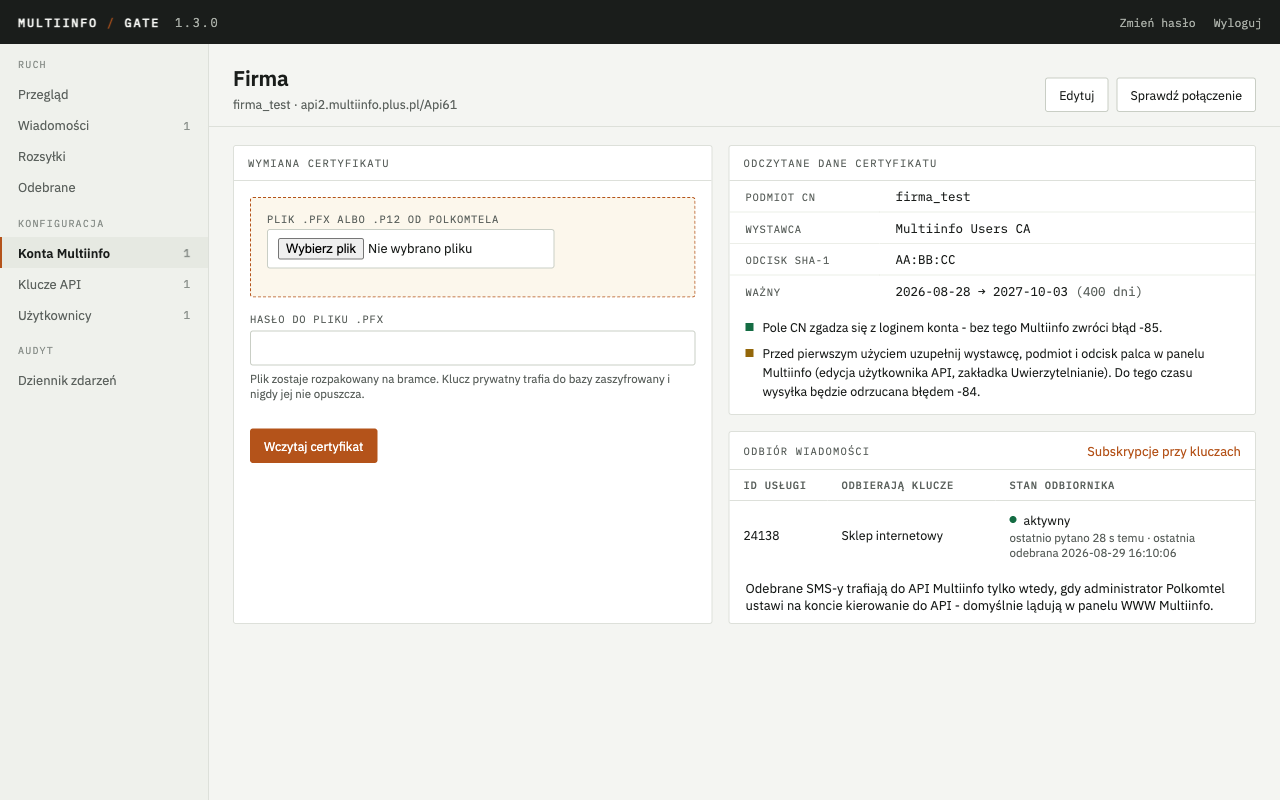
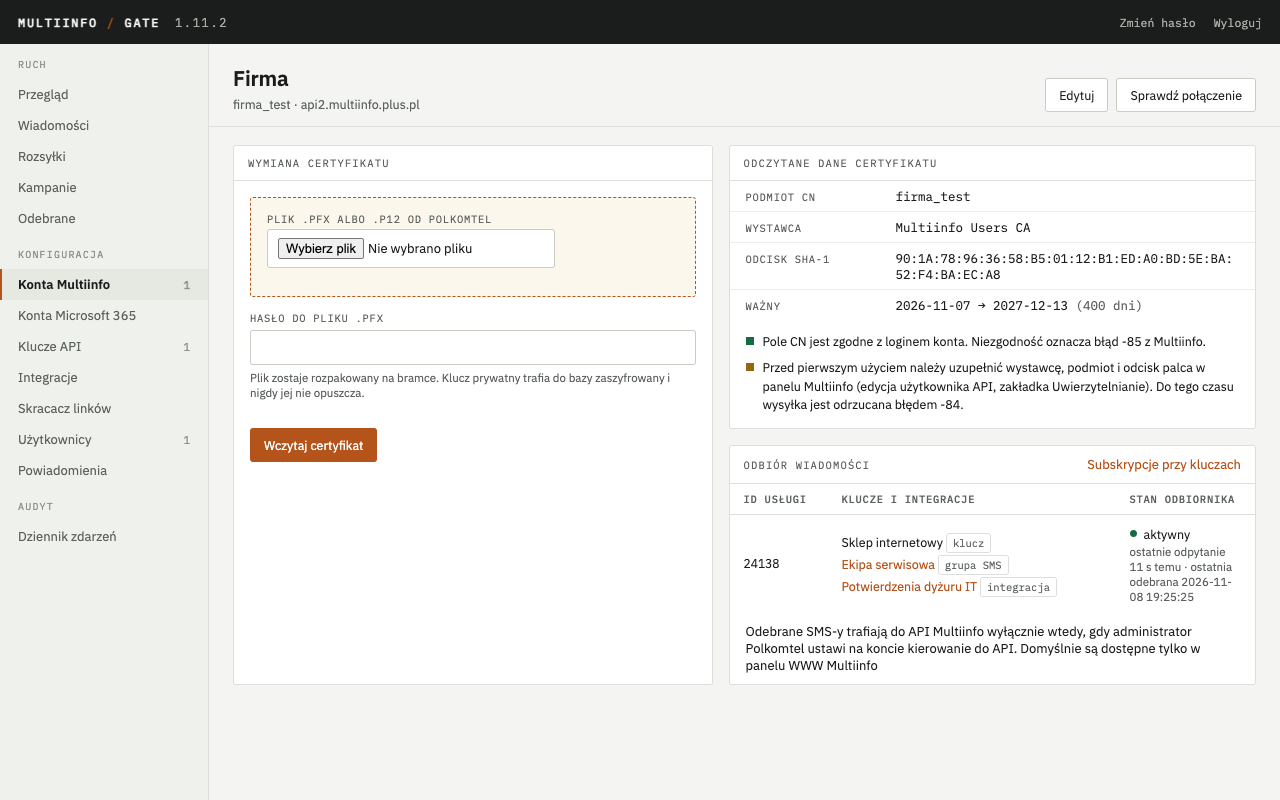
1.11.2: grupa nasłuchuje wybranej usługi i pomija zaległe SMS-y, jeden warunek odbierających
Grupa SMS z wybraną usługą odbiera i rozsyła wyłącznie SMS-y z tej usługi, zgodnie z rozdziałem 5a.2.
Wiadomość, którą Multiinfo odebrało ponad 2 godziny wcześniej, grupa pomija z wpisem „wiadomość
zaległa”. Chroni to przed rozesłaniem zaległości sprzed dni przy pierwszym uruchomieniu odbioru.

Odpytywanie, dostawy i karta konta korzystają z jednego warunku SQL, a test sprawdza ich zgodność.
Karta konta: kolumna „Klucze i integracje” z plakietkami, stan „nieaktywny: żaden klucz ani integracja
nie odbiera”, nowy zrzut ekranu w dokumentacji.

diff --git a/test/store/inbound-services.test.ts b/test/store/inbound-services.test.ts
@@ -83,6 +83,64 @@ describe('InboundServicesRepo.activeTargets', () => {
     integrations.setEnabled(id, false, NOW);
     expect(repo.activeTargets(NOW)).toEqual([]);
   });
+  it('grupa z wybraną usługą odpytuje tylko tę usługę, grupa bez usługi wszystkie usługi klucza', () => {
+    const apiKeyId = keys.insert(key({ webhookUrl: null, webhookSecret: null, inboundSubscribed: 0, serviceIds: ['24138', '24902'] }));
+    const id = integrations.insert({
+      name: 'Ekipa serwisowa', kind: 'sms_group', apiKeyId, serviceId: '24138', orig: null, preset: 'sms-grupa', enabled: 1,
+      config: defaultSmsGroupConfig(), secrets: {}, storePayloads: 0, createdAt: NOW,
+    });
+    expect(repo.activeTargets(NOW)).toEqual([{ accountId, serviceId: '24138' }]);
+    integrations.update(id, { name: 'Ekipa serwisowa', serviceId: null, orig: null, preset: 'sms-grupa', enabled: 1, storePayloads: 0, config: defaultSmsGroupConfig() }, NOW);
+    expect(repo.activeTargets(NOW)).toEqual([{ accountId, serviceId: '24138' }, { accountId, serviceId: '24902' }]);
+  });
+});
+
+describe('odpytywanie, dostawy i karta konta liczą tych samych odbiorców', () => {
+  // Trzy zapytania odpowiadają na to samo pytanie: activeTargets (o co pytać Multiinfo), inboundListenerKeyIds
+  // (komu dostarczyć odebraną) i inboundListeners (co pokazać na karcie konta). Rozjazd między nimi był błędem 1.11.1.
+  const zgodne = () => {
+    const cele = repo.activeTargets(NOW).map((t) => t.serviceId);
+    for (const usluga of ['24138', '24902']) {
+      const klucze = integrations.inboundListenerKeyIds(accountId, usluga, NOW).length + keys.inboundSubscribers(accountId, usluga, NOW).length;
+      const karta = integrations.inboundListeners(accountId, usluga, NOW).length + keys.inboundSubscribers(accountId, usluga, NOW).length;
+      expect([usluga, klucze > 0, karta > 0]).toEqual([usluga, cele.includes(usluga), cele.includes(usluga)]);
+    }
+  };
+  let numer = 0;
+  const integracja = (apiKeyId: number, over: { kind: 'sms_group' | 'webhook_out'; serviceId?: string | null; enabled?: 0 | 1; events?: string[] }) => integrations.insert({
+    name: `I${++numer}`, kind: over.kind, apiKeyId, serviceId: over.serviceId ?? null, orig: null, preset: 'custom', enabled: over.enabled ?? 1,
+    config: over.kind === 'sms_group' ? defaultSmsGroupConfig() : { ...defaultOutboundConfig(), url: 'https://x.example/', ...(over.events ? { events: over.events as never } : {}) },
+    secrets: {}, storePayloads: 0, createdAt: NOW,
+  });
+  const bezOdbioru = (over: Partial<ApiKeyInput> = {}) => keys.insert(key({ webhookUrl: null, webhookSecret: null, inboundSubscribed: 0, serviceIds: ['24138', '24902'], ...over }));
+
+  it('grupa z usługą, bez usługi i wyłączona', () => {
+    const k = bezOdbioru();
+    zgodne();
+    integracja(k, { kind: 'sms_group', serviceId: '24902' });
+    zgodne();
+    integracja(k, { kind: 'sms_group', enabled: 0 });
+    zgodne();
+  });
+  it('wychodząca na odebrane i tylko na statusy', () => {
+    const k = bezOdbioru();
+    integracja(k, { kind: 'webhook_out', events: ['message.delivered'] });
+    zgodne();
+    integracja(k, { kind: 'webhook_out' });
+    zgodne();
+  });
+  it('klucz odwołany, wygasły i bez jednej z usług', () => {
+    const odwolany = bezOdbioru({ keyPrefix: 'p1' });
+    integracja(odwolany, { kind: 'sms_group' });
+    keys.revoke(odwolany);
+    zgodne();
+    const wygasly = bezOdbioru({ keyPrefix: 'p2', expiresAt: '2026-08-29T09:00:00.000Z' });
+    integracja(wygasly, { kind: 'webhook_out' });
+    zgodne();
+    const jednaUsluga = bezOdbioru({ keyPrefix: 'p3', serviceIds: ['24902'] });
+    integracja(jednaUsluga, { kind: 'sms_group', serviceId: '24138' });
+    zgodne();
+  });
 });
 
 describe('InboundServicesRepo - stan usługi', () => {

diff --git a/src/admin/views/accounts.ts b/src/admin/views/accounts.ts
@@ -495,13 +495,13 @@ function ago(iso: string, now: Date): string {
 function inboundPanel(v: AccountView, now: Date): string {
   const rows = v.inbound.map(({ serviceId, subscribers, listeners, state }) => {
     const receivers = [
-      ...subscribers.map((name) => esc(name)),
+      ...subscribers.map((name) => `${esc(name)} <span class="tag">klucz</span>`),
       ...listeners.map((i) => `<a href="/integracje/${esc(i.id)}">${esc(i.name)}</a> <span class="tag">${i.kind === 'sms_group' ? 'grupa SMS' : 'integracja'}</span>`),
     ];
     let status: string;
     if (v.row.pausedReason !== null) status = '<span class="st"><span class="dot dot-wait"></span>wstrzymany razem z kontem</span>';
     else if (state.error !== null) status = `<span class="st"><span class="dot dot-fail"></span>zatrzymany: ${esc(state.error)}</span>`;
-    else if (receivers.length === 0) status = '<span class="dim">nieaktywny (brak odbierających kluczy i integracji)</span>';
+    else if (receivers.length === 0) status = '<span class="dim">nieaktywny: żaden klucz ani integracja nie odbiera</span>';
     else {
       const polled = state.lastPollAt === null ? 'bez odpytania' : `ostatnie odpytanie ${ago(state.lastPollAt, now)}`;
       const received = state.lastReceivedAt === null ? 'bez odebranych wiadomości' : `ostatnia odebrana ${warsawStamp(state.lastReceivedAt)}`;
@@ -510,14 +510,14 @@ function inboundPanel(v: AccountView, now: Date): string {
     }
     return `<tr>
       <td class="m">${esc(serviceId)}</td>
-      <td>${receivers.length === 0 ? '<span class="dim">-</span>' : receivers.join('<br>')}</td>
+      <td>${receivers.length === 0 ? '<span class="dim">-</span>' : receivers.map((r) => `<div style="padding: 3px 0;">${r}</div>`).join('')}</td>
       <td>${status}</td>
     </tr>`;
   }).join('');
   return `<div class="panel">
     <div class="panel-h"><div class="lab">Odbiór wiadomości</div><a href="/klucze">Subskrypcje przy kluczach</a></div>
     <table>
-      <tr><th style="width: 70px;">ID usługi</th><th style="width: 260px;">Odbierają</th><th>Stan odbiornika</th></tr>
+      <tr><th style="width: 70px;">ID usługi</th><th style="width: 260px;">Klucze i integracje</th><th>Stan odbiornika</th></tr>
       ${rows}
     </table>
     <div class="hint" style="padding: 10px 16px;">Odebrane SMS-y trafiają do API Multiinfo wyłącznie wtedy, gdy administrator Polkomtel ustawi

diff --git a/src/store/integrations.ts b/src/store/integrations.ts
@@ -57,12 +57,14 @@ const OUTBOUND_LISTENER_SQL = `i.enabled = 1 AND (
             OR (i.kind = 'sms_group' AND ? = 'message.received'))`;
 
 /**
- * Warunek SQL bez parametrów: integracja `i` odbiera wiadomości przychodzące, czyli jest włączoną wychodzącą
- * na message.received albo włączoną grupą SMS. Taka integracja zapala odbiór usług swojego klucza.
+ * Warunek SQL bez parametrów: integracja `i` odbiera wiadomości z usługi `s.service_id`, czyli jest włączoną
+ * wychodzącą na message.received albo włączoną grupą SMS, której wybrana usługa (o ile jest) to ta usługa.
+ * Taka integracja zapala odbiór. Zapytanie musi mieć w zasięgu usługę klucza pod aliasem `s`. Ten sam warunek
+ * liczy odpytywanie, dostawy i kartę konta, żeby te trzy miejsca zawsze widziały tych samych odbiorców.
  */
 export const RECEIVED_LISTENER_SQL = `i.enabled = 1 AND (
             (i.kind = 'webhook_out' AND EXISTS (SELECT 1 FROM json_each(json_extract(i.config, '$.events')) e WHERE e.value = 'message.received'))
-            OR i.kind = 'sms_group')`;
+            OR (i.kind = 'sms_group' AND (i.service_id IS NULL OR i.service_id = s.service_id)))`;
 
 export class IntegrationsRepo {
   constructor(private readonly db: Database, private readonly masterKey: Buffer) {}
@@ -136,10 +138,10 @@ export class IntegrationsRepo {
     const rows = this.db.prepare(
       `SELECT DISTINCT k.id FROM api_keys k
          JOIN api_key_services s ON s.api_key_id = k.id AND s.service_id = ?
-         JOIN integrations i ON i.api_key_id = k.id AND ${OUTBOUND_LISTENER_SQL}
+         JOIN integrations i ON i.api_key_id = k.id AND ${RECEIVED_LISTENER_SQL}
         WHERE k.account_id = ? AND k.revoked_at IS NULL AND (k.expires_at IS NULL OR k.expires_at > ?)
         ORDER BY k.id`,
-    ).all(serviceId, 'message.received', 'message.received', accountId, now.toISOString()) as Array<{ id: number }>;
+    ).all(serviceId, accountId, now.toISOString()) as Array<{ id: number }>;
     return rows.map((r) => r.id);
   }
 

diff --git a/src/integrations/pipeline.ts b/src/integrations/pipeline.ts
@@ -551,7 +551,14 @@ export interface ReceivedEvent {
   id: string; serviceId: string; from: string; to: string; kind: string; text?: string; hex?: string; receivedAt: string; relatedMessageId: string | null;
 }
 
-export type SmsGroupSkipReason = 'binary' | 'sender_not_allowed' | 'no_prefix' | 'empty' | 'condition' | 'no_recipients';
+export type SmsGroupSkipReason = 'binary' | 'sender_not_allowed' | 'no_prefix' | 'empty' | 'stale' | 'condition' | 'no_recipients';
+
+/**
+ * Wiadomość starsza niż ten próg (licząc od odbioru przez Multiinfo) nie trafia do grupy. Multiinfo trzyma
+ * nieodebrane SMS-y, dopóki ktoś o nie nie zapyta, więc pierwsze uruchomienie odbioru oddałoby zaległości
+ * sprzed dni i grupa rozesłałaby je na koszt konta. Dwie godziny obejmują zwykłą przerwę w pracy bramki.
+ */
+export const GROUP_MAX_AGE_MS = 2 * 3600_000;
 export type SmsGroupOutcome =
   | { kind: 'sent'; messageIds: string[]; recipients: string[]; parts: number; text: string; confirmId: string | null }
   | { kind: 'skipped'; reason: SmsGroupSkipReason }
@@ -610,6 +617,10 @@ export function runSmsGroup(deps: PipelineDeps, integration: SmsGroupIntegration
   if (sender === null) return skip('sender_not_allowed', `nadawca spoza listy: ${event.from}`);
   const match = matchPrefix(event.text, config.prefix);
   if (!match.ok) return match.reason === 'empty' ? skip('empty', 'pusta treść') : skip('no_prefix', 'bez prefiksu');
+  const received = Date.parse(event.receivedAt);
+  if (Number.isFinite(received) && now.getTime() - received > GROUP_MAX_AGE_MS) {
+    return skip('stale', 'wiadomość zaległa: Multiinfo odebrało ją ponad 2 godziny temu');
+  }
   const recipients = groupRecipients(config, event.from);
   const context = buildGroupContext(event, match.body, sender, recipients, config, integration, now);
 

diff --git a/test/admin/accounts.test.ts b/test/admin/accounts.test.ts
@@ -547,7 +547,7 @@ describe('karta konta - odbiór wiadomości', () => {
   it('usługa bez subskrybentów: odbiór nieaktywny', async () => {
     const res = await card();
     expect(res.body).toContain('Odbiór wiadomości');
-    expect(res.body).toContain('nieaktywny (brak odbierających kluczy i integracji)');
+    expect(res.body).toContain('nieaktywny: żaden klucz ani integracja nie odbiera');
   });
 
   it('usługa z subskrybentem: aktywny, z czasem ostatniego pytania i ostatniej odebranej', async () => {
@@ -557,7 +557,8 @@ describe('karta konta - odbiór wiadomości', () => {
     h.inboundServices.markReceived({ accountId, serviceId: '24138' }, new Date(NOW.getTime() - 3600_000));
     const res = await card();
     expect(res.body).toContain('aktywny');
-    expect(res.body).toContain('CRM');
+    expect(res.body).toContain('CRM <span class="tag">klucz</span>');
+    expect(res.body).toContain('>Klucze i integracje</th>');
     expect(res.body).toContain('ostatnie odpytanie 12 s temu');
     expect(res.body).toContain('ostatnia odebrana 2026-08-25 11:00:00');
   });
@@ -601,7 +602,7 @@ describe('karta konta - odbiór wiadomości', () => {
       config: { ...defaultOutboundConfig(), url: 'https://dyzur.example/sms', events: ['message.delivered'] }, secrets: {}, storePayloads: 0, createdAt: NOW,
     });
     const res = await card();
-    expect(res.body).toContain('nieaktywny (brak odbierających kluczy i integracji)');
+    expect(res.body).toContain('nieaktywny: żaden klucz ani integracja nie odbiera');
     expect(res.body).not.toContain('>Wyłączona</a>');
     expect(res.body).not.toContain('>Statusy</a>');
   });

diff --git a/test/integrations/group-pipeline.test.ts b/test/integrations/group-pipeline.test.ts
@@ -75,6 +75,17 @@ describe('runSmsGroup', () => {
     expect(events(g.id).map((e) => e[1])).toEqual(['brak treści tekstowej', 'pusta treść', 'bez prefiksu', 'nadawca spoza listy: 48601000009']);
     expect(events(g.id).every((e) => e[0] === 'skipped')).toBe(true);
   });
+  it('wiadomość odebrana przez Multiinfo ponad 2 godziny temu to pominięto bez rozesłania i bez potwierdzenia', () => {
+    // Zaległe SMS-y czekające w Multiinfo, na przykład po pierwszym uruchomieniu odbioru, nie mogą trafić do całej grupy.
+    const g = lists({ confirm: { enabled: true } });
+    const stale = new Date(NOW.getTime() - 2 * 3600_000 - 1000).toISOString();
+    expect(runSmsGroup(deps, g, event({ receivedAt: stale }), NOW)).toEqual({ kind: 'skipped', reason: 'stale' });
+    expect(allMessages()).toHaveLength(0);
+    expect(events(g.id)).toEqual([['skipped', 'wiadomość zaległa: Multiinfo odebrało ją ponad 2 godziny temu']]);
+    // Tuż przed progiem grupa rozsyła normalnie.
+    const fresh = new Date(NOW.getTime() - 2 * 3600_000 + 60_000).toISOString();
+    expect(runSmsGroup(deps, g, event({ receivedAt: fresh }), NOW)).toMatchObject({ kind: 'sent' });
+  });
   it('potwierdzenie: SMS w wątku do nadawcy po rozesłaniu, z liczbą odbiorców', () => {
     const g = lists({ confirm: { enabled: true } });
     const out = runSmsGroup(deps, g, event(), NOW) as Extract<SmsGroupOutcome, { kind: 'sent' }>;

diff --git a/test/worker/integrations.test.ts b/test/worker/integrations.test.ts
@@ -124,6 +124,18 @@ describe('emitIntegrations: grupa SMS', () => {
     expect(deps.integrationEvents.list(g, 5)[0]).toMatchObject({ result: 'sent', inboundId: 'in_1' });
     expect(notify).not.toHaveBeenCalled();
   });
+  it('grupa z wybraną usługą pomija SMS odebrany w innej usłudze klucza, bez wpisu w dzienniku', () => {
+    const g = integrations.insert({
+      name: 'Grupa 24138', kind: 'sms_group', apiKeyId, serviceId: '24138', orig: null, preset: 'sms-grupa', enabled: 1,
+      config: { ...defaultSmsGroupConfig(), senders: [{ phone: '48601000001', name: '' }], recipients: ['48601000002'], prefix: 'pomoc' },
+      secrets: {}, storePayloads: 0, createdAt: NOW,
+    });
+    emitIntegrations(deps, apiKeyId, 'message.received', { ...received, serviceId: '24902', text: 'Pomoc: inna usługa' }, NOW, { inboundId: 'in_1' });
+    expect(sentMessages()).toEqual([]);
+    expect(deps.integrationEvents.list(g, 5)).toEqual([]);
+    emitIntegrations(deps, apiKeyId, 'message.received', { ...received, text: 'Pomoc: ta usługa' }, NOW, { inboundId: 'in_1' });
+    expect(sentMessages()).toEqual([['48601000002', 'ta usługa']]);
+  });
   it('bez zależności wysyłki zapisuje błąd i powiadamia, nie rzuca', () => {
     const g = group({});
     const { group: _omit, ...bez } = deps;

diff --git a/src/inbound/receiver.ts b/src/inbound/receiver.ts
@@ -35,7 +35,7 @@ export interface ReceiverDeps {
   log?: Logger;
   /** Czekanie przerywalne sygnałem; testy podstawiają natychmiastowe. */
   sleep?: (ms: number, signal: AbortSignal) => Promise<void>;
-  /** Integracje wychodzące na message.received; bez obu pól odebrane idą tylko do subskrybentów. */
+  /** Integracje wychodzące na message.received i grupy SMS; bez obu pól odebrane idą tylko do subskrybentów. */
   integrations?: IntegrationsRepo;
   integrationEmit?: IntegrationEmitDeps;
   /** Powiadomienia administratora (konto wstrzymane za certyfikat). */
@@ -76,7 +76,7 @@ export type PollOutcome =
   | { kind: 'error'; error: string };
 
 export interface InboundHealth {
-  /** Usługi z choć jednym subskrybentem (cele). */
+  /** Usługi z choć jednym odbierającym kluczem albo integracją (cele). */
   services: number;
   /** Pętle działające w tej chwili. */
   listening: number;

diff --git a/src/store/inbound-services.ts b/src/store/inbound-services.ts
@@ -18,7 +18,8 @@ export class InboundServicesRepo {
    * Odbiór zapala subskrypcja: para konto+usługa jest celem, gdy konto jest czynne
    * i niewstrzymane, usługa nadal należy do konta, a choć jeden czynny klucz z webhookiem
    * subskrybuje ją. Drugi powód pytania Multiinfo: integracja wychodząca na message.received albo grupa SMS
-   * przy czynnym kluczu z dostępem do usługi - klucz nie musi mieć adresu webhooka ani subskrypcji.
+   * (bez wybranej usługi albo z tą usługą) przy czynnym kluczu z dostępem do usługi - klucz nie musi mieć
+   * adresu webhooka ani subskrypcji.
    * Bez jednego i drugiego nie ma po co pytać.
    */
   activeTargets(now: Date): InboundTarget[] {

diff --git a/src/worker/integrations.ts b/src/worker/integrations.ts
@@ -103,6 +103,8 @@ export function emitIntegrations(
   const ids: number[] = [];
   for (const integration of deps.integrations.listOutboundFor(apiKeyId, event)) {
     if (integration.kind === 'sms_group') {
+      // Grupa z wybraną usługą nasłuchuje tylko jej; SMS z innej usługi klucza nie dotyczy tej grupy.
+      if (integration.serviceId !== null && payload.serviceId !== integration.serviceId) continue;
       runGroup(deps, integration as SmsGroupIntegration, payload as unknown as ReceivedEvent, now);
       continue;
     }

diff --git a/docs/uruchomienie.md b/docs/uruchomienie.md
@@ -516,8 +516,9 @@ aplikacja ma otrzymywać powiadomienia o doręczeniu (opis w `docs/api.md`, rozd
 Pole **Odbiera wiadomości przychodzące** włącza dla klucza odbiór SMS-ów od abonentów. Bramka
 zaczyna wtedy odpytywać Multiinfo o wiadomości z usług klucza i przekazuje każdą powiadomieniem
 `message.received` na adres webhooka. Pole wymaga adresu webhooka. Kilka kluczy z dostępem do tej
-samej usługi może odbierać naraz. Gdy ostatni odbierający klucz zostanie odwołany, wygaśnie albo
-straci zaznaczenie, bramka przestaje odpytywać o tę usługę.
+samej usługi może odbierać naraz. Odbiór uruchamiają także integracje z SMS-a nasłuchujące
+odebranych SMS-ów oraz grupy SMS. Bramka przestaje odpytywać o usługę, gdy nie odbiera jej już żaden
+klucz ani żadna integracja.
 
 Sekcja **Skracanie linków** włącza dla klucza zamianę linków w SMS-ach na krótkie linki własnej
 domeny firmy i liczenie ich otwarć. Opis sekcji znajdziesz w artykule
@@ -530,15 +531,14 @@ wklejony w przepływie nie pozwala wtedy ominąć limitu części, ochrony przed
 integracji. Lista kluczy oznacza taki klucz plakietką „tylko integracje”. Polecenie sprawdzające
 przy nowym kluczu odczytuje wtedy listę integracji zamiast wysyłać SMS.
 
-Stan odbioru widać na karcie konta w sekcji „Odbiór wiadomości”: czy jest aktywny, czas ostatniego
-odpytania i ostatniej odebranej wiadomości. Kolumna „Odbierają” wymienia klucze z zaznaczonym odbiorem
-oraz integracje, które uruchamiają odbiór, czyli integracje z SMS-a nasłuchujące odebranych SMS-ów
-i grupy SMS. Usługa zatrzymana błędem Multiinfo (na przykład
-nieaktywna) pokazuje przyczynę. Bramka ponawia odpytanie co 15 minut. Gdy administrator
+Stan odbioru przedstawia karta konta w sekcji „Odbiór wiadomości”: czy odbiór jest aktywny, czas
+ostatniego odpytania i ostatniej odebranej wiadomości. Kolumna „Klucze i integracje” wymienia klucze
+z zaznaczonym odbiorem oraz integracje, które same uruchamiają odbiór. Usługa zatrzymana błędem
+Multiinfo, na przykład nieaktywna, pokazuje przyczynę. Bramka ponawia odpytanie co 15 minut. Gdy administrator
 Polkomtel aktywuje usługę, odbiór wznawia się bez ingerencji. Zapis klucza albo tego konta w panelu
 wymusza natychmiastowe odpytanie.
 
-![Karta konta, sekcja Odbiór wiadomości: usługa z odbierającym kluczem, stan aktywny z czasem ostatniego pytania i ostatniej odebranej](obrazki/konto-odbior.png)
+![Karta konta, sekcja Odbiór wiadomości: usługę odbierają klucz, grupa SMS i integracja, stan aktywny z czasem ostatniego odpytania i ostatniej odebranej](obrazki/konto-odbior.png)
 
 Nad listą kluczy panel prosi raz o **adres, pod którym aplikacje widzą bramkę**. Przy bramce pod
 domeną (rozdział 6) jest to `https://<TWOJA-DOMENA>`. Przy kontenerze na Proxmoxie w sieci
@@ -938,7 +938,8 @@ w panelu w zakładce **Odebrane** (ekran poniżej), a aplikacja otrzyma powiadom
 i z jakim skutkiem.
 
 Jeżeli lista pozostaje pusta, sprawdź na karcie konta sekcję „Odbiór wiadomości”. Stan
-„nieaktywny” oznacza, że żaden klucz ani integracja nie odbiera wiadomości z tej usługi. Stan „zatrzymany” podaje kod błędu Multiinfo.
+„nieaktywny” oznacza, że żaden klucz ani integracja nie odbiera wiadomości z tej usługi. Stan
+„zatrzymany” podaje kod błędu Multiinfo.
 Stan „aktywny” z bieżącym czasem pytania oznacza, że bramka odpytuje, ale Multiinfo nie zwraca wiadomości.
 Wtedy wiadomości prawdopodobnie trafiają do panelu WWW Multiinfo zamiast do API.
 

diff --git a/docs/integracje.md b/docs/integracje.md
@@ -1015,8 +1015,8 @@ Przycisk **Dodaj integrację** i kafelek **Do grupy** otwierają formularz od ra
 ustawienia. Formularz w trybie prostym ma pięć sekcji.
 
 1. **Podstawy.** Nazwa grupy, klucz API, a gdy klucz ma więcej niż jedną usługę, także usługa.
-   Grupa nasłuchuje SMS-ów odebranych w usłudze klucza. Włączona grupa sama uruchamia odbiór,
-   dlatego zaznaczanie odbioru przy kluczu nie jest potrzebne.
+   Grupa nasłuchuje SMS-ów odebranych w tej usłudze. Włączona grupa sama uruchamia odbiór,
+   dlatego zaznaczanie odbioru przy kluczu ani podawanie adresu webhooka nie jest potrzebne.
 2. **Kto i do kogo.** Wybór trybu dwoma polami opcji. Dla osobnych list są dwa pola:
    „Numery uprawnione do pisania” i „Numery odbiorców”. Dla grupy zamkniętej jedno pole:
    „Numery członków”. W każdym polu jeden numer w wierszu. Po numerze można dopisać nazwę,
@@ -1117,12 +1117,15 @@ Powody właściwe dla grupy:
 
 | Wynik | Powód |
 |---|---|
-| pominięto | brak treści tekstowej, nadawca spoza listy, bez prefiksu, pusta treść, warunek niespełniony, brak odbiorców |
+| pominięto | brak treści tekstowej, nadawca spoza listy, bez prefiksu, pusta treść, wiadomość zaległa, warunek niespełniony, brak odbiorców |
 | limit | nadmiar ponad limit burzy, na przykład `ponad 10 w 10 min` |
 | błąd | treść ponad limit części przy „nie wysyłaj”, błąd szablonu, klucz albo konto niedostępne, nieudane potwierdzenie |
 | wysłano | liczba odbiorców, na przykład `6 odbiorców`, z odnośnikiem do pierwszej wiadomości |
 
-„Brak treści tekstowej” dotyczy SMS-a binarnego. „Brak odbiorców” pojawia się w grupie
+„Brak treści tekstowej” dotyczy SMS-a binarnego. „Wiadomość zaległa” oznacza SMS-a, którego
+Multiinfo odebrało ponad 2 godziny wcześniej. Takie wiadomości czekają w Multiinfo na przykład
+wtedy, gdy odbiór był wyłączony. Grupa ich nie rozsyła, ponieważ treść sprzed kilku godzin jest
+zwykle nieaktualna, a rozesłanie obciążyłoby konto. „Brak odbiorców” pojawia się w grupie
 zamkniętej, gdy jedyny członek pisze do siebie. Przy włączonym przechowywaniu ładunków wpis
 zawiera zdarzenie odebranej wiadomości, a odnośnik **Użyj jako próbki** wpisuje numer nadawcy
 i treść w pola próbki.
